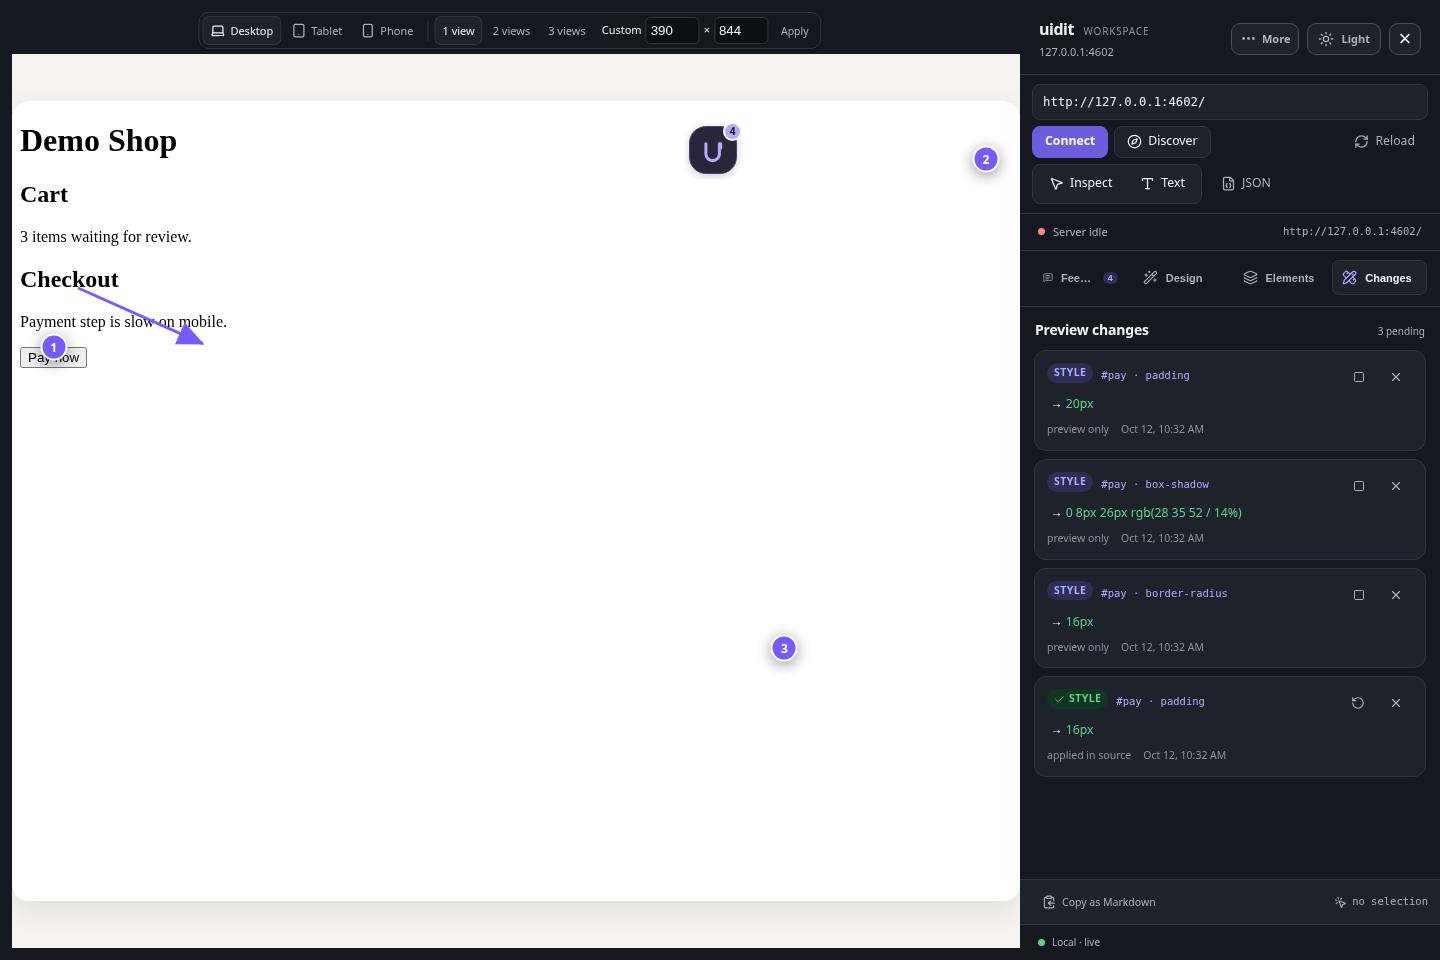
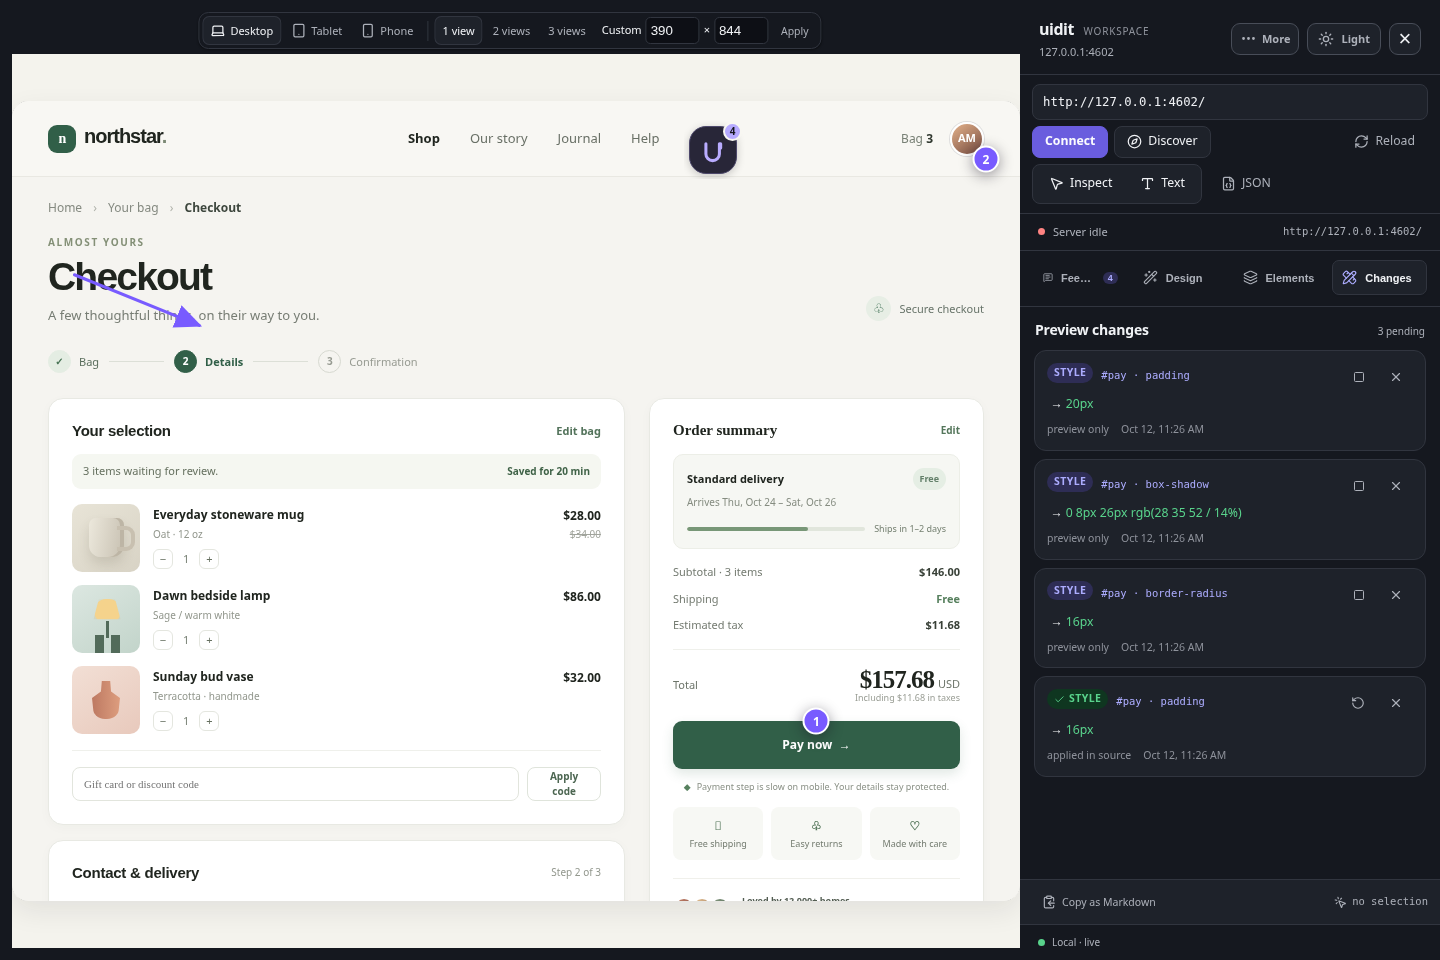
docs: showcase polished demo storefront

diff --git a/test/fixtures/demo-site.js b/test/fixtures/demo-site.js
@@ -1,15 +1,84 @@
 import http from 'node:http';
 
-const page = `<!doctype html><html><head><title>Demo Shop</title></head>
+// A compact, self-contained storefront used by the browser suite and README
+// screenshots. Keep the page dependency-free so it behaves like a real local
+// preview even when the test runner has no network access.
+const page = `<!doctype html>
+<html lang="en">
+<head>
+  <meta charset="utf-8">
+  <meta name="viewport" content="width=device-width,initial-scale=1">
+  <meta name="theme-color" content="#f5f4f0">
+  <title>Demo Shop — Checkout</title>
+  <style>
+    :root{color-scheme:light;--ink:#20251f;--muted:#777d74;--line:#e8e9e3;--paper:#fff;--canvas:#f5f4f0;--green:#315f48;--lime:#d6eea2;--serif:Georgia,serif}
+    *{box-sizing:border-box}body{margin:0;background:var(--canvas);color:var(--ink);font:14px/1.5 Inter,ui-sans-serif,system-ui,-apple-system,BlinkMacSystemFont,'Segoe UI',sans-serif}button{font:inherit;cursor:pointer}a{color:inherit;text-decoration:none}.shell{max-width:1180px;margin:auto;padding:0 36px}
+    .topbar{height:76px;border-bottom:1px solid #e9e8e2;background:#f8f7f3}.topbar-inner{height:100%;display:flex;align-items:center;justify-content:space-between}.brand{font:800 20px Manrope,sans-serif;letter-spacing:-1px}.brand-mark{display:inline-grid;place-items:center;background:var(--green);color:white;width:28px;height:28px;border-radius:9px;margin-right:8px;font:700 14px Manrope}.nav{display:flex;gap:30px;color:#697066;font-size:13px}.nav a:first-child{color:var(--ink);font-weight:700}.top-actions{display:flex;align-items:center;gap:17px}.avatar{width:34px;height:34px;border-radius:50%;background:linear-gradient(145deg,#e4b28b,#754b3f);display:inline-grid;place-items:center;color:white;font-weight:700;font-size:11px;border:2px solid white;box-shadow:0 0 0 1px #ddd}
+    .crumbs{padding:22px 0 18px;color:#858a81;font-size:12px}.crumbs span{padding:0 8px;color:#b0b3ab}.crumbs b{color:#3d463d;font-weight:600}.page-head{display:flex;justify-content:space-between;align-items:end;margin-bottom:25px}.eyebrow{font-size:10px;font-weight:700;letter-spacing:1.6px;text-transform:uppercase;color:#849077}.page-head h1{font:800 clamp(29px,4vw,39px)/1.1 Manrope,sans-serif;letter-spacing:-1.8px;margin:6px 0 7px}.page-head p{margin:0;color:var(--muted);font-size:13px}.secure{display:flex;align-items:center;gap:8px;color:#69756b;font-size:11px;padding-bottom:4px}.secure-icon{display:grid;place-items:center;width:25px;height:25px;background:#e7eee5;color:#3e7054;border-radius:50%;font-size:13px}
+    .progress{display:flex;align-items:center;gap:10px;margin:0 0 25px;color:#979b92;font-size:11px}.step{display:flex;align-items:center;gap:8px;white-space:nowrap}.step b{display:grid;place-items:center;width:23px;height:23px;border-radius:50%;border:1px solid #d7d9d1;font-size:10px}.step.active{color:#315f48;font-weight:700}.step.active b{background:var(--green);border-color:var(--green);color:white}.step.done{color:#596d5c}.step.done b{background:#e4ede3;border-color:#e4ede3;color:#477354}.progress-line{height:1px;background:#dcdfd7;width:55px}
+    .layout{display:grid;grid-template-columns:minmax(0,1.55fr) minmax(300px,.9fr);gap:24px;align-items:start}.stack{display:grid;gap:15px}.card{background:var(--paper);border:1px solid #e8e9e3;border-radius:15px;padding:23px;box-shadow:0 3px 12px #303b2207}.card-head{display:flex;align-items:center;justify-content:space-between;margin-bottom:17px}.card-head h2{font:700 15px Manrope,sans-serif;letter-spacing:-.25px;margin:0}.card-head a{font-size:11px;color:#53735b;font-weight:700}.tiny-label{font-size:10px;color:#92978d}
+    .items-note{display:flex;justify-content:space-between;align-items:center;background:#f5f7f1;border-radius:9px;padding:9px 11px;margin:-2px 0 15px;color:#65705f;font-size:11px}.items-note strong{color:#3f6247;font-size:10px}.products{display:grid;gap:13px}.product{display:grid;grid-template-columns:68px 1fr auto;gap:13px;align-items:center}.product-art{height:68px;border-radius:10px;position:relative;overflow:hidden;display:grid;place-items:center}.art-mug{background:linear-gradient(140deg,#e8e4d7,#d8d3c5)}.mug{width:35px;height:39px;border-radius:7px 7px 12px 12px;background:linear-gradient(100deg,#ece8dc,#c7c0b1);box-shadow:inset -4px 0 #bdb5a5,0 7px 12px #51483826;position:relative}.mug:after{content:'';position:absolute;right:-11px;top:8px;width:14px;height:17px;border:4px solid #c8c0b0;border-left:0;border-radius:0 9px 9px 0}.art-lamp{background:linear-gradient(145deg,#dce7e1,#c2d4ca)}.lamp{position:relative;width:45px;height:46px}.lamp:before{content:'';position:absolute;left:10px;top:3px;width:27px;height:24px;background:#f5d38c;clip-path:polygon(20% 0,80% 0,100% 85%,0 85%);border-radius:12px;filter:drop-shadow(0 5px 9px #e2b36088)}.lamp:after{content:'';position:absolute;left:22px;top:25px;width:3px;height:17px;background:#526b5a;box-shadow:-8px 17px 0 3px #526b5a,8px 17px 0 3px #526b5a}.art-vase{background:linear-gradient(145deg,#f2dfd5,#e8c9bc)}.vase{width:28px;height:38px;background:linear-gradient(90deg,#bd7962,#dd9d7e);border-radius:8px 8px 13px 13px;clip-path:polygon(35% 0,65% 0,68% 28%,100% 45%,92% 100%,8% 100%,0 45%,32% 28%);position:relative}.product-name{font-weight:700;font-size:12px}.product-meta{font-size:10px;color:#92978d;margin-top:3px}.qty{display:flex;align-items:center;gap:10px;color:#778074;font-size:11px;margin-top:7px}.qty button{width:20px;height:20px;border:1px solid #e4e6df;border-radius:6px;background:white;color:#667060;padding:0}.price{text-align:right;font-size:12px;font-weight:700;align-self:start;padding-top:3px}.old{font-size:10px;color:#a1a49c;text-decoration:line-through;font-weight:400;margin-top:2px}.divider{height:1px;background:#eff0eb;margin:16px 0}.promo{display:flex;gap:8px}.promo input,.field input{width:100%;border:1px solid #e2e5dd;border-radius:8px;background:white;padding:10px 11px;font:11px 'DM Sans';outline:none}.promo input:focus,.field input:focus{border-color:#6c9678;box-shadow:0 0 0 3px #dceade}.promo button{border:1px solid #dfe4db;border-radius:8px;background:white;padding:0 13px;color:#4c6651;font-weight:700;font-size:10px}.subtotals{display:grid;gap:9px;font-size:11px;color:#747b71}.subtotals div{display:flex;justify-content:space-between}.subtotals strong{color:#323a32;font-weight:600}.total{font-size:14px!important;color:#222b23!important;font-weight:700}.total strong{font-size:18px}.tax-note{font-size:9px;color:#9a9e95;text-align:right;margin-top:-3px}
+    .field-grid{display:grid;grid-template-columns:1fr 1fr;gap:12px}.field{display:grid;gap:6px}.field.full{grid-column:1/-1}.field label{font-size:10px;font-weight:700;color:#656d63}.field input{height:39px}.field input::placeholder{color:#afb3aa}.payment-options{display:grid;grid-template-columns:1fr 1fr;gap:9px}.pay-option{border:1px solid #e4e7df;border-radius:9px;padding:11px;display:flex;align-items:center;gap:9px;font-size:11px;font-weight:600}.pay-option.selected{border-color:#598268;box-shadow:0 0 0 2px #e5eee5;color:#315f48}.radio{width:14px;height:14px;border:1px solid #cbd0c7;border-radius:50%;display:grid;place-items:center}.selected .radio:after{content:'';width:7px;height:7px;border-radius:50%;background:#467452}.card-brand{margin-left:auto;font-weight:800;color:#415f80;letter-spacing:-1px}.amex{color:#507d9e;font-size:9px}
+    .order-card{position:sticky;top:20px}.order-top{display:flex;justify-content:space-between;align-items:center}.order-top h2{font:700 15px Manrope;margin:0}.edit-link{color:#54765b;font-size:10px;font-weight:700}.delivery{background:#f6f7f3;border:1px solid #eceee7;border-radius:10px;padding:13px;margin:15px 0}.delivery-top{display:flex;justify-content:space-between;align-items:center;font-weight:700;font-size:11px}.delivery-top span:last-child{font-size:9px;color:#63806a;background:#e5eee4;padding:4px 7px;border-radius:20px}.delivery p{color:#858c80;font-size:10px;margin:5px 0 0}.eta{display:flex;gap:9px;align-items:center;margin-top:12px}.eta-bar{height:4px;background:#e1e6dc;border-radius:10px;flex:1;overflow:hidden}.eta-bar i{display:block;width:68%;height:100%;background:#789777;border-radius:10px}.eta small{font-size:9px;color:#758071}.summary-lines{display:grid;gap:10px}.summary-lines div{display:flex;justify-content:space-between;color:#747b71;font-size:11px}.summary-lines b{color:#384037;font-weight:600}.summary-total{display:flex;align-items:end;justify-content:space-between;margin-top:16px}.summary-total span{font-size:11px;color:#6d756a}.summary-total strong{font:800 25px Manrope;letter-spacing:-1px}.currency{font-size:10px;color:#82877e;margin-left:4px}.pay-button{width:100%;height:48px;border:0;border-radius:9px;background:#315f48;color:white;font-weight:700;font-size:12px;margin-top:17px;box-shadow:0 5px 12px #315f4825;transition:transform .15s,background .15s}.pay-button:hover{background:#244c39;transform:translateY(-1px)}.pay-button:focus-visible{outline:3px solid #b8d7bb;outline-offset:3px}.secure-foot{display:flex;align-items:center;justify-content:center;gap:6px;color:#8a9186;font-size:9px;margin-top:11px}.secure-foot span{color:#56805e}.trust{display:grid;grid-template-columns:repeat(3,1fr);gap:8px;margin-top:13px}.trust div{background:#f7f8f4;border-radius:8px;padding:10px 7px;text-align:center;font-size:9px;color:#747c70}.trust b{display:block;color:#4f7255;font-size:12px;margin-bottom:2px}.testimonial{display:flex;gap:11px;align-items:center;border-top:1px solid #f0f0eb;margin-top:18px;padding-top:15px}.faces{display:flex;padding-left:4px}.faces i{width:22px;height:22px;border-radius:50%;border:2px solid white;margin-left:-4px;background:linear-gradient(135deg,#c78167,#784a44)}.faces i:nth-child(2){background:linear-gradient(135deg,#ebc797,#8d684f)}.faces i:nth-child(3){background:linear-gradient(135deg,#899d83,#425747)}.testimonial p{font-size:9px;color:#80867d;margin:0}.testimonial strong{color:#535d52}.footer{padding:26px 0 35px;color:#92978e;font-size:10px;display:flex;justify-content:space-between}.footer nav{display:flex;gap:18px}
+    @media(max-width:760px){.shell{padding:0 20px}.topbar{height:64px}.nav{display:none}.page-head{align-items:start}.secure{font-size:0}.secure-icon{font-size:13px}.layout{grid-template-columns:1fr;gap:14px}.order-card{position:static;grid-row:1}.stack{grid-row:2}.order-card .card{padding:18px}.trust{grid-template-columns:repeat(3,1fr)}.page-head h1{font-size:30px}.progress-line{width:min(8vw,40px)}}
+    @media(max-width:420px){.shell{padding:0 14px}.crumbs{padding:16px 0}.progress{gap:6px;font-size:9px}.step{gap:5px}.step b{width:20px;height:20px}.progress-line{width:14px}.card{padding:17px}.product{grid-template-columns:58px 1fr auto;gap:10px}.product-art{height:58px}.field-grid{gap:9px}.footer{font-size:9px}.footer nav{gap:10px}}
+  </style>
+</head>
 <body>
-  <main id="app">
-    <h1>Demo Shop</h1>
-    <div class="grid">
-      <article class="card"><h2>Cart</h2><p>3 items waiting for review.</p></article>
-      <article class="card"><h2>Checkout</h2><p>Payment step is slow on mobile.</p></article>
+  <header class="topbar"><div class="shell topbar-inner">
+    <a class="brand" href="#"><span class="brand-mark">n</span>northstar<span style="color:#7c8a75">.</span></a>
+    <nav class="nav" aria-label="Main navigation"><a href="#">Shop</a><a href="#">Our story</a><a href="#">Journal</a><a href="#">Help</a></nav>
+    <div class="top-actions"><span style="font-size:12px;color:#788075">Bag <b style="color:#30382f">3</b></span><span class="avatar" aria-label="Account: Alex Morgan">AM</span></div>
+  </div></header>
+  <main class="shell">
+    <div class="crumbs">Home <span>›</span> Your bag <span>›</span> <b>Checkout</b></div>
+    <section class="page-head"><div><div class="eyebrow">Almost yours</div><h1>Checkout</h1><p>A few thoughtful things, on their way to you.</p></div><div class="secure"><span class="secure-icon">♧</span>Secure checkout</div></section>
+    <div class="progress" aria-label="Checkout progress"><div class="step done"><b>✓</b> Bag</div><i class="progress-line"></i><div class="step active"><b>2</b> Details</div><i class="progress-line"></i><div class="step"><b>3</b> Confirmation</div></div>
+    <div class="layout">
+      <div class="stack">
+        <section class="card" aria-labelledby="order-items"><div class="card-head"><h2 id="order-items">Your selection</h2><a href="#">Edit bag</a></div>
+          <div class="items-note"><span>3 items waiting for review.</span><strong>Saved for 20 min</strong></div>
+          <div class="products">
+            <article class="product"><div class="product-art art-mug" aria-hidden="true"><div class="mug"></div></div><div><div class="product-name">Everyday stoneware mug</div><div class="product-meta">Oat · 12 oz</div><div class="qty"><button aria-label="Decrease mug quantity">−</button><span>1</span><button aria-label="Increase mug quantity">+</button></div></div><div class="price">$28.00<div class="old">$34.00</div></div></article>
+            <article class="product"><div class="product-art art-lamp" aria-hidden="true"><div class="lamp"></div></div><div><div class="product-name">Dawn bedside lamp</div><div class="product-meta">Sage / warm white</div><div class="qty"><button aria-label="Decrease lamp quantity">−</button><span>1</span><button aria-label="Increase lamp quantity">+</button></div></div><div class="price">$86.00</div></article>
+            <article class="product"><div class="product-art art-vase" aria-hidden="true"><div class="vase"></div></div><div><div class="product-name">Sunday bud vase</div><div class="product-meta">Terracotta · handmade</div><div class="qty"><button aria-label="Decrease vase quantity">−</button><span>1</span><button aria-label="Increase vase quantity">+</button></div></div><div class="price">$32.00</div></article>
+          </div>
+          <div class="divider"></div><div class="promo"><input aria-label="Gift card or discount code" placeholder="Gift card or discount code"><button type="button" id="apply-code">Apply code</button></div>
+        </section>
+        <section class="card"><div class="card-head"><h2>Contact &amp; delivery</h2><span class="tiny-label">Step 2 of 3</span></div>
+          <div class="field-grid"><div class="field full"><label for="email">Email address</label><input id="email" type="email" placeholder="alex@example.com" value="alex.morgan@email.com"></div><div class="field"><label for="first">First name</label><input id="first" value="Alex"></div><div class="field"><label for="last">Last name</label><input id="last" value="Morgan"></div><div class="field full"><label for="address">Street address</label><input id="address" placeholder="House number and street name" value="42 Willow Lane"></div><div class="field"><label for="city">City</label><input id="city" value="Portland"></div><div class="field"><label for="zip">ZIP code</label><input id="zip" value="97205"></div></div>
+        </section>
+        <section class="card"><div class="card-head"><h2>Payment method</h2><span class="tiny-label">All transactions are encrypted</span></div>
+          <div class="payment-options"><div class="pay-option selected"><span class="radio"></span>Card<span class="card-brand">VISA</span></div><div class="pay-option"><span class="radio"></span>PayPal<span class="amex">PAYPAL</span></div></div>
+          <div class="field-grid" style="margin-top:14px"><div class="field full"><label for="cardnumber">Card number</label><input id="cardnumber" placeholder="0000 0000 0000 0000" value="••••  ••••  ••••  4242"></div><div class="field"><label for="expiry">Expiration</label><input id="expiry" placeholder="MM / YY" value="08 / 28"></div><div class="field"><label for="security">Security code</label><input id="security" placeholder="CVC" value="•••"></div></div>
+        </section>
+      </div>
+      <aside class="card order-card"><div class="order-top"><h2>Order summary</h2><a class="edit-link" href="#">Edit</a></div>
+        <div class="delivery"><div class="delivery-top"><span>Standard delivery</span><span>Free</span></div><p>Arrives Thu, Oct 24 – Sat, Oct 26</p><div class="eta"><div class="eta-bar"><i></i></div><small>Ships in 1–2 days</small></div></div>
+        <div class="summary-lines"><div><span>Subtotal · 3 items</span><b>$146.00</b></div><div><span>Shipping</span><b style="color:#57805e">Free</b></div><div><span>Estimated tax</span><b>$11.68</b></div></div>
+        <div class="divider" style="margin:15px 0 11px"></div><div class="summary-total"><span>Total</span><div><strong>$157.68</strong><span class="currency">USD</span></div></div><div class="tax-note">Including $11.68 in taxes</div>
+        <button id="pay" class="pay-button" type="button">Pay now&nbsp; <span aria-hidden="true">→</span></button>
+        <div class="secure-foot"><span>◆</span> Payment step is slow on mobile. Your details stay protected.</div>
+        <div class="trust"><div><b>↗</b>Free shipping</div><div><b>♧</b>Easy returns</div><div><b>♡</b>Made with care</div></div>
+        <div class="testimonial"><div class="faces" aria-hidden="true"><i></i><i></i><i></i></div><p><strong>Loved by 12,000+ homes</strong><br>“The little details make it.” · ★★★★★</p></div>
+      </aside>
     </div>
-    <button id="pay">Pay now</button>
+    <footer class="footer"><span>© 2025 northstar goods · Made for slower mornings.</span><nav aria-label="Footer"><a href="#">Shipping</a><a href="#">Returns</a><a href="#">Privacy</a></nav></footer>
   </main>
+  <script>
+    document.querySelectorAll('.qty button').forEach(button => button.addEventListener('click', () => {
+      const count = button.parentElement.querySelector('span');
+      count.textContent = Math.max(1, Number(count.textContent) + (button.textContent.trim() === '+' ? 1 : -1));
+    }));
+    document.querySelectorAll('.pay-option').forEach(option => option.addEventListener('click', () => {
+      document.querySelectorAll('.pay-option').forEach(item => item.classList.remove('selected'));
+      option.classList.add('selected');
+    }));
+    document.querySelector('#apply-code').addEventListener('click', event => {
+      const input = document.querySelector('[aria-label="Gift card or discount code"]');
+      event.currentTarget.textContent = input.value.trim() ? 'Applied ✓' : 'Add a code';
+    });
+  </script>
 </body></html>`;
 
 export const server = http.createServer((req, res) => {

diff --git a/test/e2e.js b/test/e2e.js
@@ -297,7 +297,10 @@ try {
   await client.close();
 
   // Page context offers page-only actions and stores a page-level note.
-  await frame.evaluate(() => document.body.dispatchEvent(new MouseEvent('contextmenu', { bubbles: true, cancelable: true, clientX: 700, clientY: 700 })));
+  await frame.evaluate(() => {
+    window.scrollTo(0, document.documentElement.scrollHeight - innerHeight);
+    document.body.dispatchEvent(new MouseEvent('contextmenu', { bubbles: true, cancelable: true, clientX: 1000, clientY: 700 }));
+  });
   assert.match(await frame.locator('#uidit-context-menu').innerText(), /Add page note/);
   assert.doesNotMatch(await frame.locator('#uidit-context-menu').innerText(), /Inspect this element/);
   await frame.locator('[data-context-action="comment"]').click();

diff --git a/README.md b/README.md
@@ -46,7 +46,10 @@ other projects, pass a command explicitly with `uidit -- cargo run`, or configur
 ## Screenshots
 
 The screenshots below come from the browser end-to-end suite and show the current
-workspace running against a fixture app.
+workspace running against a self-contained, responsive Demo Shop checkout. The
+example includes product cards, delivery details, payment options, and working
+quantity and promo controls, so the review tools are demonstrated on a realistic,
+varied page rather than a bare HTML stub.
 
 <table>
   <tr>
